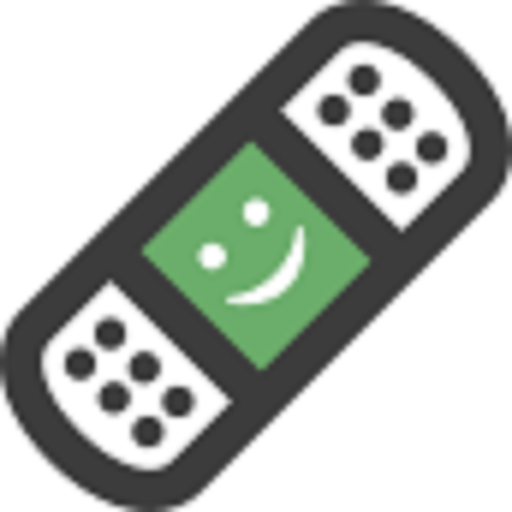
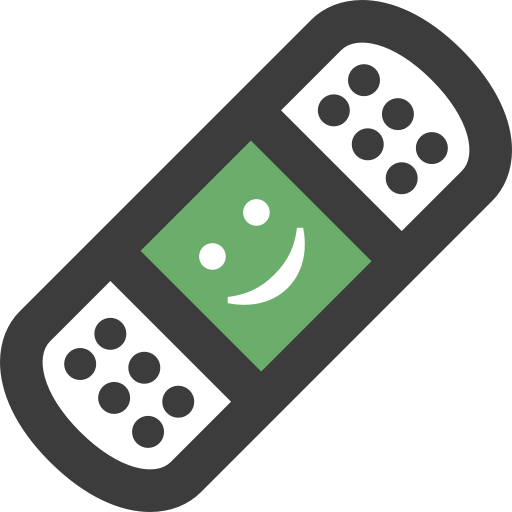
Changed images and slack user lower case

diff --git a/model/messagerepository.js b/model/messagerepository.js
@@ -21,7 +21,7 @@ class MessageRepository {
 				return reject('unknown activity');
 			}
 			let message = object(self.templates[templateIdFormat], params);
-			self.slackbot.postMessageToUser(user, "*ai{D}ify message*", message)
+			self.slackbot.postMessageToUser(user.toLowerCase(), "*ai{D}ify message*", message)
 				.then(function(data) {
 					resolve(data);
 				})
